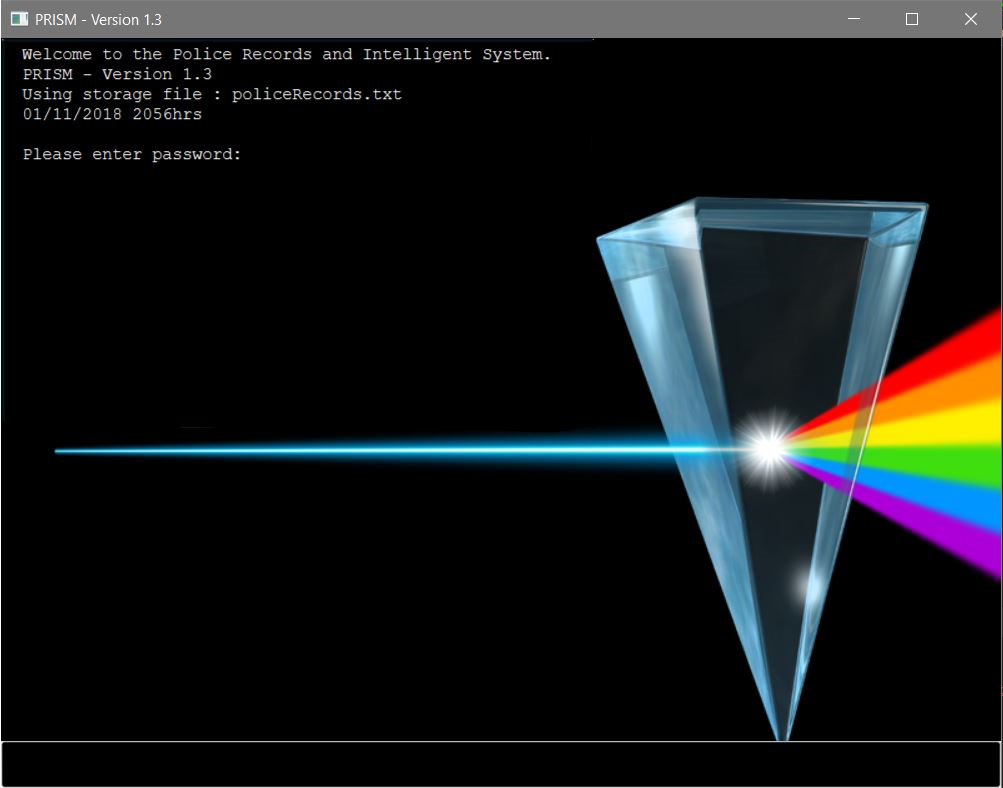
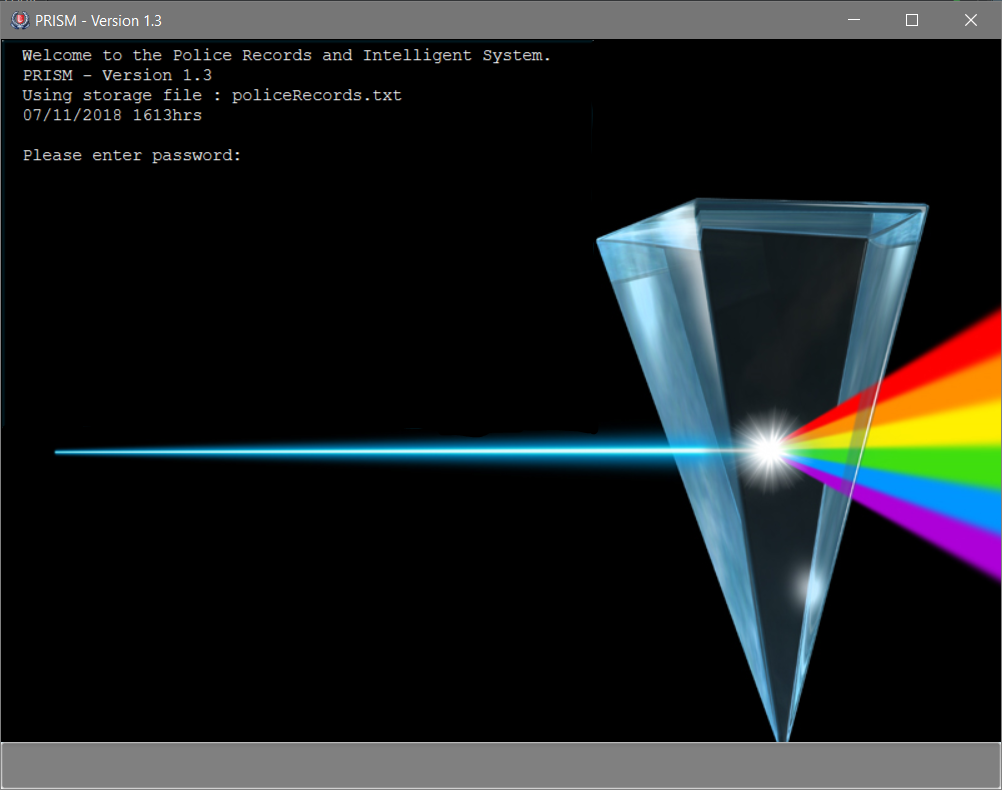
updated relevant images

diff --git a/src/seedu/addressbook/ui/DarkTheme.css b/src/seedu/addressbook/ui/DarkTheme.css
@@ -5,7 +5,7 @@
     -fx-font-size: 10pt;
     -fx-padding: 0 325 250 0;
     -fx-cursor: crosshair;
-    -fx-background-image: url("file:docs/images/PrismBackground.png");
+    -fx-background-image: url("file:resources/PrismBackground.png");
 }
 
 .text-field {

diff --git a/src/seedu/addressbook/ui/Gui.java b/src/seedu/addressbook/ui/Gui.java
@@ -44,7 +44,7 @@ public class Gui {
         loader.setLocation(Main.class.getResource("ui/mainwindow.fxml"));
         stage.setTitle(version);
         stage.setScene(new Scene(loader.load(), INITIAL_WINDOW_WIDTH, INITIAL_WINDOW_HEIGHT));
-        stage.getIcons().add(new Image("file:docs/images/SPF.png"));
+        stage.getIcons().add(new Image("file:resources/SPF.png"));
         stage.show();
         MainWindow mainWindow = loader.getController();
         mainWindow.setLogic(logic);
